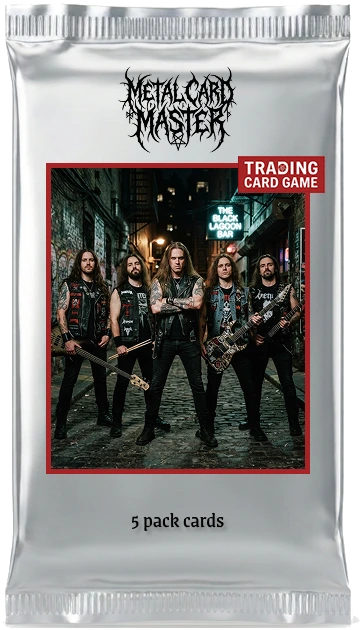
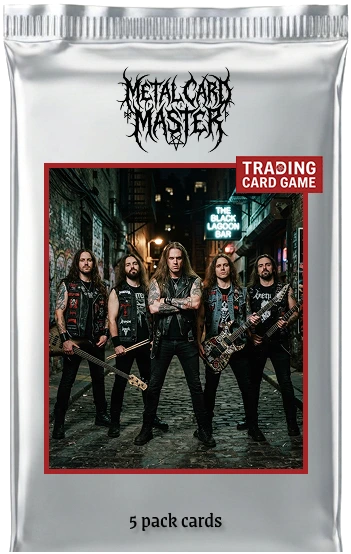
Retire le repli scellé en bas du paquet (plus simple que corriger l'ombre)
Tenter de corriger l'ombre du pli métallique laissait des artefacts.
Plus simple et plus propre : recadrage de l'image juste au-dessus du
repli scellé (pur détail d'emballage, sans contenu utile), qui ne
laisse plus aucune trace d'ombre ni de résidu, sur fond clair comme
sur fond sombre.

Claude-Session: https://claude.ai/code/session_011USd2GFXDhdV5wb4oV88fb

diff --git a/index.html b/index.html
@@ -588,7 +588,7 @@ body::after {
    étirée. Les éléments .booster-brand-mark/.booster-count/.booster-art/.booster-edition
    restent dans le DOM (hidden) uniquement pour que startOpening() continue de fonctionner
    sans changement (cf. plus bas, pc-full-art reprend la même logique). */
-.booster:has(.booster-full-art) { aspect-ratio: 0.575; }
+.booster:has(.booster-full-art) { aspect-ratio: 0.634; }
 .booster:has(.booster-full-art) .booster-body {
   clip-path: none; box-shadow: none; background: none;
 }
